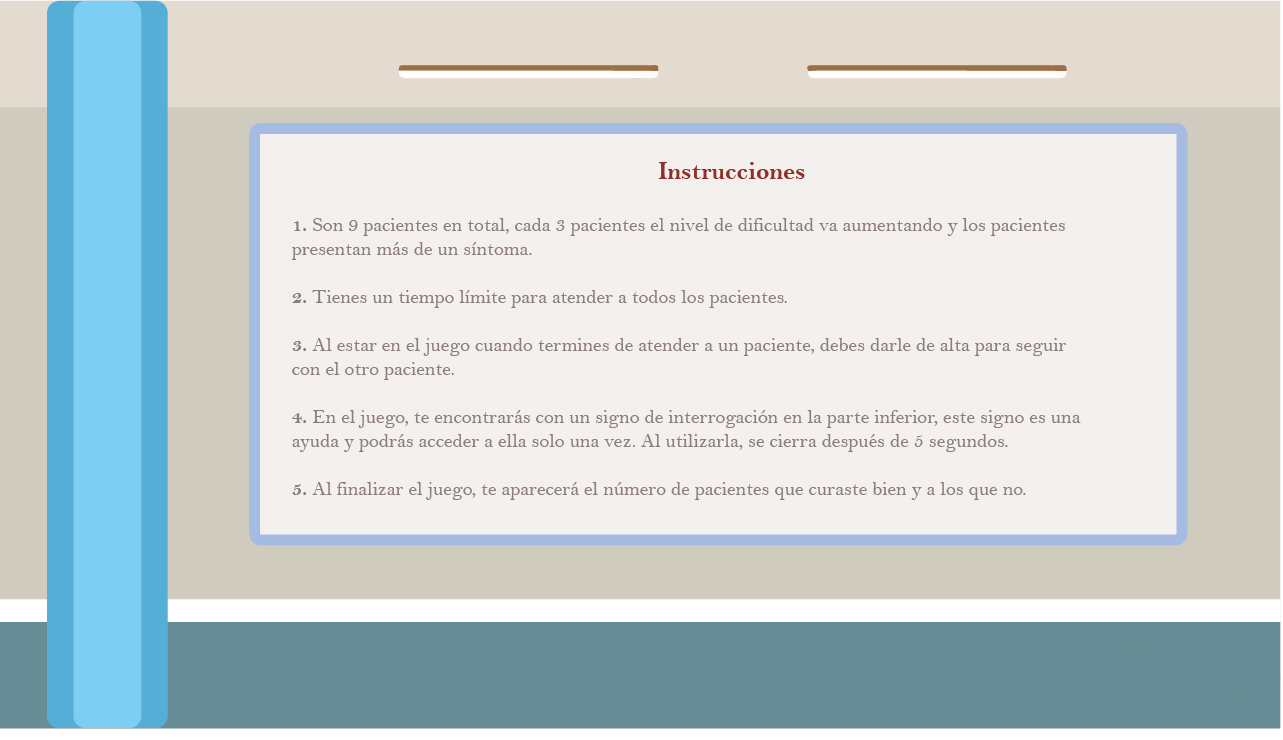
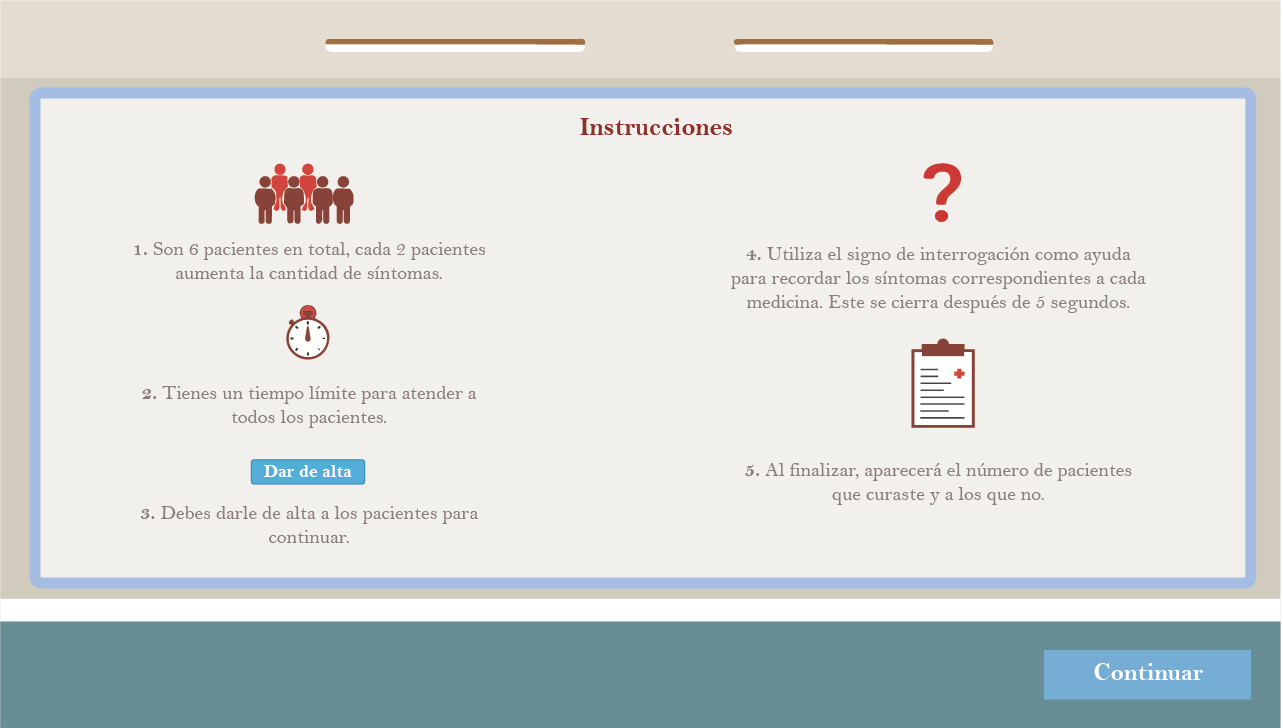
pass Final Screen

diff --git a/src/components/Medicina/src/logica.ts b/src/components/Medicina/src/logica.ts
@@ -2,7 +2,7 @@ import p5 from "p5";
 import ImageController from "./Components/imageController";
 import Navegador from "./Navegador/navegador";
 import Game from "./Pantallas/game";
-import Instrucciones1, { Instrucciones2, Instrucciones3, Instrucciones4 } from "./Pantallas/instrucciones";
+import Instrucciones1, { Instrucciones2, Instrucciones3, Instrucciones4, Instrucciones5 } from "./Pantallas/instrucciones";
 import Registro from "./registro";
 
 class Logica {
@@ -21,7 +21,7 @@ class Logica {
         this.navegador.add(new Instrucciones3(app, this.navegador));
         this.navegador.add(new Instrucciones4(app, this.navegador));
         this.navegador.add(new Game(app, this.navegador, this));
-        this.navegador.add(new Instrucciones1(app, this.navegador));
+        this.navegador.add(new Instrucciones5(app, this.navegador));
         this.navegador.goTo(4);
 
     }

diff --git a/src/components/Medicina/src/Pantallas/instrucciones.ts b/src/components/Medicina/src/Pantallas/instrucciones.ts
@@ -130,3 +130,32 @@ export class Instrucciones4 implements Pantalla {
 
 }
 
+export class Instrucciones5 implements Pantalla {
+
+
+    app: p5;
+    nav: Navegador;
+    btnJugar: Elemento;
+    inicio: p5.Image;
+
+
+    constructor(app: p5, nav: Navegador) {
+        this.nav = nav;
+        this.app = app;
+        this.inicio = this.app.loadImage("/img/medicina/recursos/resultados_pantalla.png")
+        this.btnJugar = new Elemento(app, "/img/medicina/recursos/Boton--siguiente.png", 1060, 660);
+    }
+
+    draw() {
+        this.app.imageMode(this.app.CORNER);
+        this.app.image(this.inicio, 0, 0)
+        this.btnJugar.draw();
+    }
+
+    mousePressed() {
+        if (this.btnJugar.isHover()) {
+            this.nav.next();
+        }
+    }
+
+}
